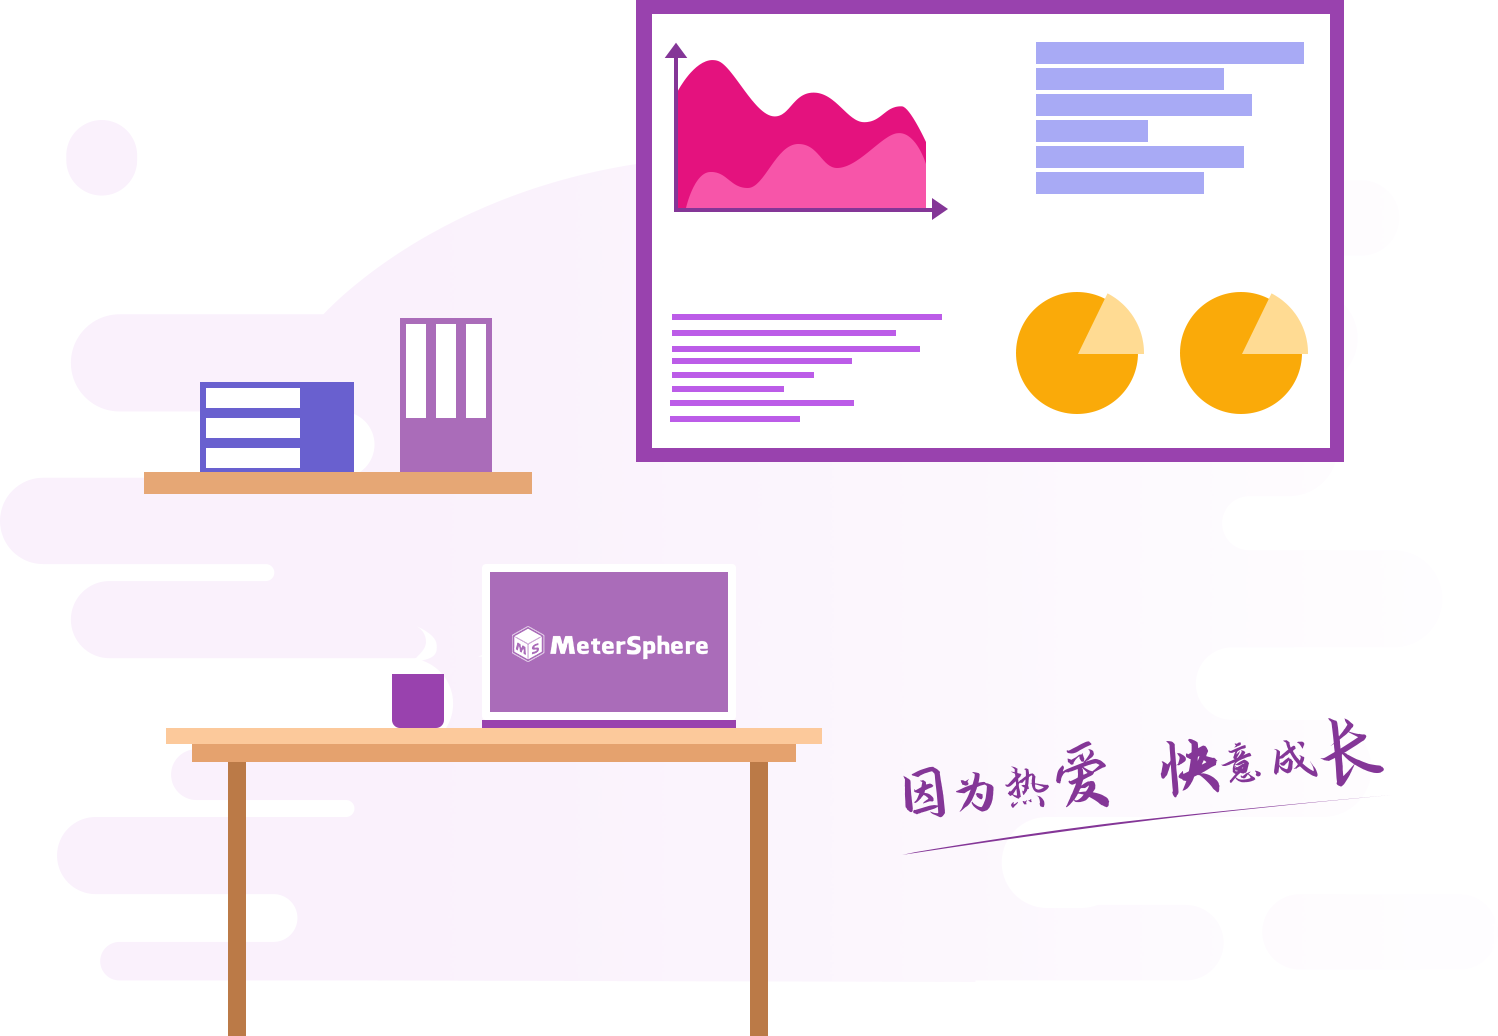
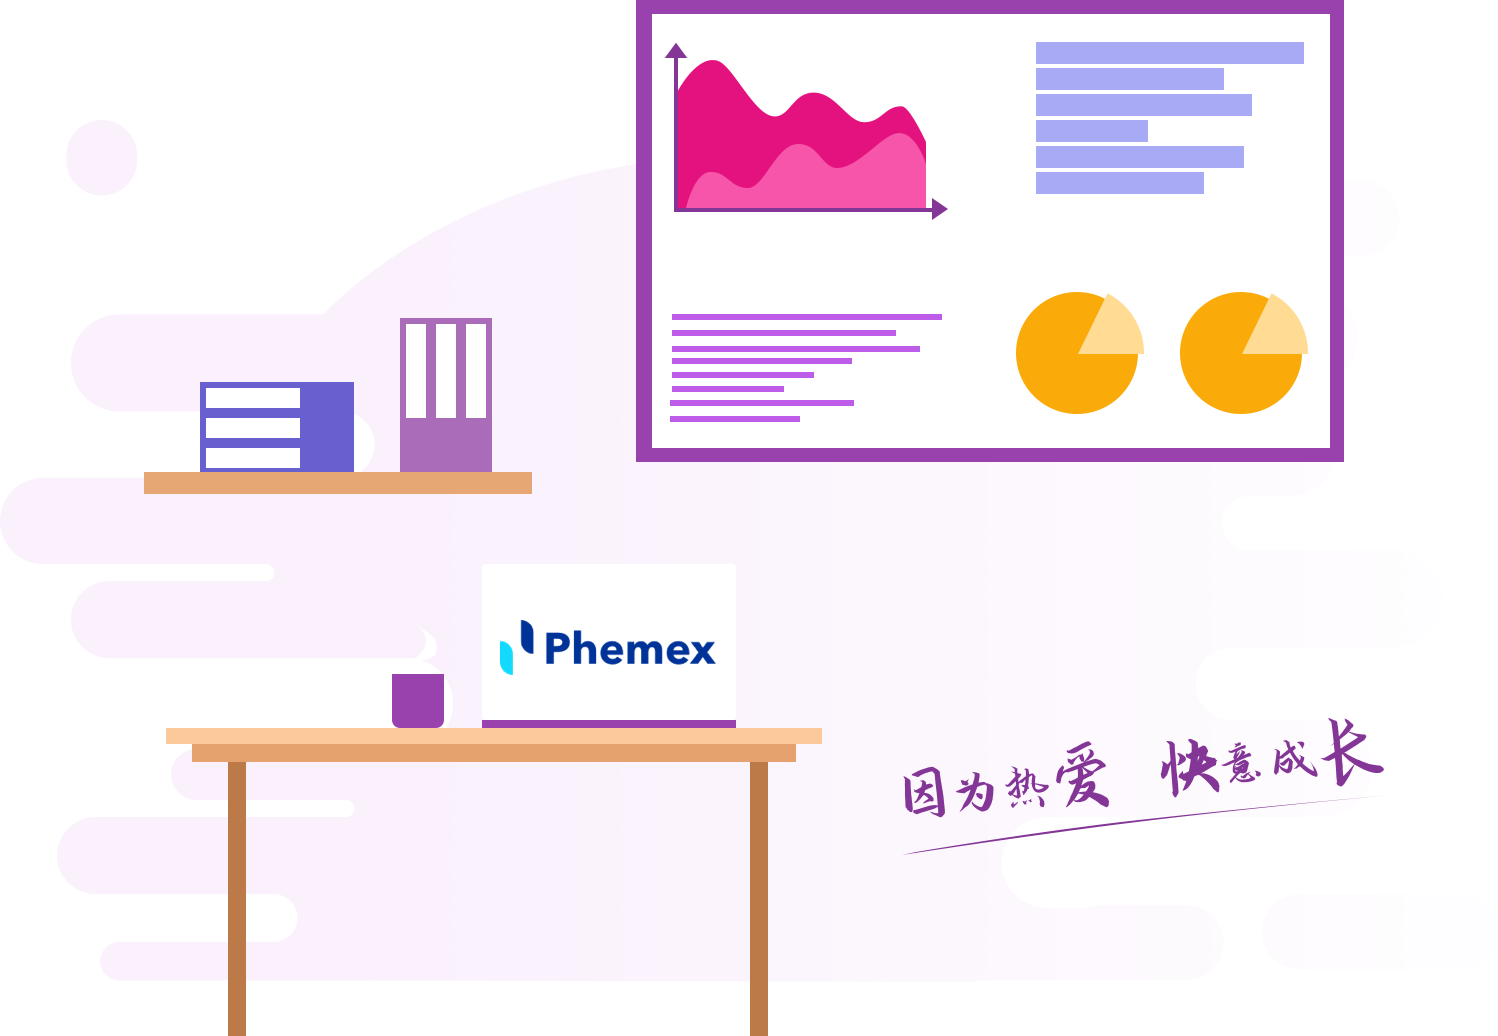
"修改思维导图用例排序、修改层级限制为50，修改logo图片资源"

Changed region(s): [[0.3071, 0.5251, 0.4913, 0.7104]]

diff --git a/frontend/src/i18n/en-US.js b/frontend/src/i18n/en-US.js
@@ -51,7 +51,7 @@ export default {
     operating: 'Operating',
     input_limit: 'Within {0} and {1} characters',
     login: 'Sign In',
-    welcome: 'One-stop open source continuous testing platform',
+    welcome: 'Phemex testing platform',
     username: 'Username',
     password: 'Password',
     input_username: 'Please enter username',

diff --git a/frontend/src/i18n/zh-CN.js b/frontend/src/i18n/zh-CN.js
@@ -52,7 +52,7 @@ export default {
     operating: '操作',
     input_limit: '长度在 {0} 到 {1} 个字符',
     login: '登录',
-    welcome: '一站式开源持续测试平台',
+    welcome: 'Phemex测试管理平台',
     username: '姓名',
     password: '密码',
     input_username: '请输入用户姓名',

diff --git a/frontend/src/i18n/zh-TW.js b/frontend/src/i18n/zh-TW.js
@@ -52,7 +52,7 @@ export default {
     operating: '操作',
     input_limit: '長度在 {0} 到 {1} 個字符',
     login: '登錄',
-    welcome: '一站式開源持續測試平臺',
+    welcome: 'Phemex測試管理平臺',
     username: '姓名',
     password: '密碼',
     input_username: '請輸入用戶姓名',

diff --git a/backend/src/main/java/io/metersphere/track/service/TestCaseService.java b/backend/src/main/java/io/metersphere/track/service/TestCaseService.java
@@ -1233,7 +1233,13 @@ public class TestCaseService {
     }
 
     public List<TestCaseWithBLOBs> listTestCaseForMinder(QueryTestCaseRequest request) {
-        request.setOrders(ServiceUtils.getByCreateTime(request.getOrders()));
+        List<OrderRequest> orderList = ServiceUtils.getDefaultOrder(request.getOrders());
+        OrderRequest order = new OrderRequest();
+        // 设置思维导图中用例的排序顺序
+        order.setName("create_time");
+        order.setType("asc");
+        orderList.add(order);
+        request.setOrders(orderList);
         return extTestCaseMapper.listForMinder(request);
     }
 

diff --git a/backend/src/main/java/io/metersphere/commons/utils/ServiceUtils.java b/backend/src/main/java/io/metersphere/commons/utils/ServiceUtils.java
@@ -29,18 +29,6 @@ public class ServiceUtils {
         return orders;
     }
 
-    public static List<OrderRequest> getByCreateTime(List<OrderRequest> orders) {
-        if (orders == null || orders.size() < 1) {
-            OrderRequest orderRequest = new OrderRequest();
-            orderRequest.setName("create_time");
-            orderRequest.setType("asc");
-            orders = new ArrayList<>();
-            orders.add(orderRequest);
-            return orders;
-        }
-        return orders;
-    }
-
     /**
      * 获取前端全选的id列表
      *

diff --git a/backend/src/main/java/io/metersphere/commons/constants/TestCaseConstants.java b/backend/src/main/java/io/metersphere/commons/constants/TestCaseConstants.java
@@ -6,7 +6,7 @@ import java.util.stream.Collectors;
 
 public class TestCaseConstants {
 
-    public static final int MAX_NODE_DEPTH = 8;
+    public static final int MAX_NODE_DEPTH = 50;
 
     public enum Type {
         Functional("functional"), Performance("performance"), Aapi("api");
